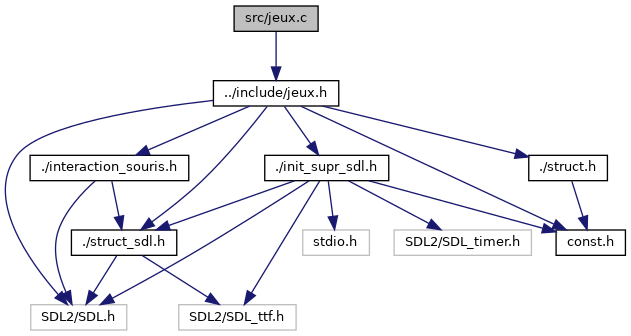
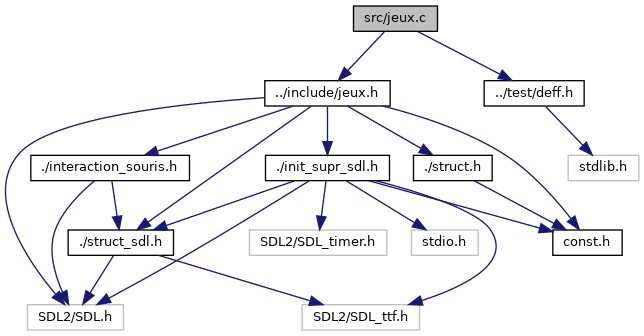
Deploying to gh-pages from @ tower-defense-L2/projet-L2@7115772ebaa96c553244dc964b326275e3705f89 🚀

diff --git a/init__supr__sdl_8h_source.html b/init__supr__sdl_8h_source.html
@@ -126,16 +126,16 @@ $(function() {
 <div class="line"><a name="l00144"></a><span class="lineno">  144</span>&#160; </div>
 <div class="line"><a name="l00145"></a><span class="lineno">  145</span>&#160;<span class="preprocessor">#endif</span></div>
 <div class="ttc" id="aconst_8h_html"><div class="ttname"><a href="const_8h.html">const.h</a></div></div>
-<div class="ttc" id="ainit__supr__sdl_8h_html_a0f5cd47d47ddda01dfd102dd3bcca397"><div class="ttname"><a href="init__supr__sdl_8h.html#a0f5cd47d47ddda01dfd102dd3bcca397">creation_bitexture</a></div><div class="ttdeci">bitexture_t * creation_bitexture(pack_t *fenetre, char *path1, char *path2, int x, int y)</div><div class="ttdoc">fonction servant à créer une bitexture</div><div class="ttdef"><b>Definition:</b> init_supr_sdl.c:212</div></div>
-<div class="ttc" id="ainit__supr__sdl_8h_html_a24c2a5628d1c9fb9ff25038f9fa675f9"><div class="ttname"><a href="init__supr__sdl_8h.html#a24c2a5628d1c9fb9ff25038f9fa675f9">position_bitexture</a></div><div class="ttdeci">void position_bitexture(bitexture_t *bouton, const int x, const int y)</div><div class="ttdoc">attribue une position au rectangle de la bitexture</div><div class="ttdef"><b>Definition:</b> init_supr_sdl.c:205</div></div>
+<div class="ttc" id="ainit__supr__sdl_8h_html_a0f5cd47d47ddda01dfd102dd3bcca397"><div class="ttname"><a href="init__supr__sdl_8h.html#a0f5cd47d47ddda01dfd102dd3bcca397">creation_bitexture</a></div><div class="ttdeci">bitexture_t * creation_bitexture(pack_t *fenetre, char *path1, char *path2, int x, int y)</div><div class="ttdoc">fonction servant à créer une bitexture</div><div class="ttdef"><b>Definition:</b> init_supr_sdl.c:213</div></div>
+<div class="ttc" id="ainit__supr__sdl_8h_html_a24c2a5628d1c9fb9ff25038f9fa675f9"><div class="ttname"><a href="init__supr__sdl_8h.html#a24c2a5628d1c9fb9ff25038f9fa675f9">position_bitexture</a></div><div class="ttdeci">void position_bitexture(bitexture_t *bouton, const int x, const int y)</div><div class="ttdoc">attribue une position au rectangle de la bitexture</div><div class="ttdef"><b>Definition:</b> init_supr_sdl.c:206</div></div>
 <div class="ttc" id="ainit__supr__sdl_8h_html_a299caa78ce5d45adf3c65b57dd67db24"><div class="ttname"><a href="init__supr__sdl_8h.html#a299caa78ce5d45adf3c65b57dd67db24">load_bitmap</a></div><div class="ttdeci">int load_bitmap(const char *path, SDL_Texture **texture, pack_t *fenetre)</div><div class="ttdoc">fonction servant à charger une bitmap et la convertir en texture</div><div class="ttdef"><b>Definition:</b> init_supr_sdl.c:77</div></div>
-<div class="ttc" id="ainit__supr__sdl_8h_html_a36af26e5dc7b20204eab0eeb8a058fee"><div class="ttname"><a href="init__supr__sdl_8h.html#a36af26e5dc7b20204eab0eeb8a058fee">supression_bouton</a></div><div class="ttdeci">void supression_bouton(bitexture_t **bouton)</div><div class="ttdoc">fonction servant à supprimer un bouton</div><div class="ttdef"><b>Definition:</b> init_supr_sdl.c:194</div></div>
-<div class="ttc" id="ainit__supr__sdl_8h_html_a52c3588a8ad29774109f938af920b926"><div class="ttname"><a href="init__supr__sdl_8h.html#a52c3588a8ad29774109f938af920b926">creation_texte</a></div><div class="ttdeci">SDL_Texture * creation_texte(pack_t *fenetre, char *texte, SDL_Color couleur)</div><div class="ttdoc">fonction servant à créer une texture a partir d'un texte</div><div class="ttdef"><b>Definition:</b> init_supr_sdl.c:133</div></div>
-<div class="ttc" id="ainit__supr__sdl_8h_html_a5e1dc847685ee1f1de2fbc8e114ad108"><div class="ttname"><a href="init__supr__sdl_8h.html#a5e1dc847685ee1f1de2fbc8e114ad108">supression_texture</a></div><div class="ttdeci">void supression_texture(texture_t *texture)</div><div class="ttdoc">fonction servant à supprimer une texture</div><div class="ttdef"><b>Definition:</b> init_supr_sdl.c:108</div></div>
-<div class="ttc" id="ainit__supr__sdl_8h_html_a796bbf8c3fc3cf1353b6241e018a23ef"><div class="ttname"><a href="init__supr__sdl_8h.html#a796bbf8c3fc3cf1353b6241e018a23ef">supression_texture_liste</a></div><div class="ttdeci">void supression_texture_liste(texture_t *texture)</div><div class="ttdoc">fonction servant à supprimer une liste de texture</div><div class="ttdef"><b>Definition:</b> init_supr_sdl.c:124</div></div>
+<div class="ttc" id="ainit__supr__sdl_8h_html_a36af26e5dc7b20204eab0eeb8a058fee"><div class="ttname"><a href="init__supr__sdl_8h.html#a36af26e5dc7b20204eab0eeb8a058fee">supression_bouton</a></div><div class="ttdeci">void supression_bouton(bitexture_t **bouton)</div><div class="ttdoc">fonction servant à supprimer un bouton</div><div class="ttdef"><b>Definition:</b> init_supr_sdl.c:195</div></div>
+<div class="ttc" id="ainit__supr__sdl_8h_html_a52c3588a8ad29774109f938af920b926"><div class="ttname"><a href="init__supr__sdl_8h.html#a52c3588a8ad29774109f938af920b926">creation_texte</a></div><div class="ttdeci">SDL_Texture * creation_texte(pack_t *fenetre, char *texte, SDL_Color couleur)</div><div class="ttdoc">fonction servant à créer une texture a partir d'un texte</div><div class="ttdef"><b>Definition:</b> init_supr_sdl.c:134</div></div>
+<div class="ttc" id="ainit__supr__sdl_8h_html_a5e1dc847685ee1f1de2fbc8e114ad108"><div class="ttname"><a href="init__supr__sdl_8h.html#a5e1dc847685ee1f1de2fbc8e114ad108">supression_texture</a></div><div class="ttdeci">void supression_texture(texture_t *texture)</div><div class="ttdoc">fonction servant à supprimer une texture</div><div class="ttdef"><b>Definition:</b> init_supr_sdl.c:109</div></div>
+<div class="ttc" id="ainit__supr__sdl_8h_html_a796bbf8c3fc3cf1353b6241e018a23ef"><div class="ttname"><a href="init__supr__sdl_8h.html#a796bbf8c3fc3cf1353b6241e018a23ef">supression_texture_liste</a></div><div class="ttdeci">void supression_texture_liste(texture_t *texture)</div><div class="ttdoc">fonction servant à supprimer une liste de texture</div><div class="ttdef"><b>Definition:</b> init_supr_sdl.c:125</div></div>
 <div class="ttc" id="ainit__supr__sdl_8h_html_a8261c3df42fe4d4d8aac42e68c4908e7"><div class="ttname"><a href="init__supr__sdl_8h.html#a8261c3df42fe4d4d8aac42e68c4908e7">initilalisation_sdl</a></div><div class="ttdeci">int initilalisation_sdl()</div><div class="ttdoc">fonction d'initialation de la sdl et ttf</div><div class="ttdef"><b>Definition:</b> init_supr_sdl.c:38</div></div>
 <div class="ttc" id="ainit__supr__sdl_8h_html_a97ec819672ff9f21645a4320e03a8587"><div class="ttname"><a href="init__supr__sdl_8h.html#a97ec819672ff9f21645a4320e03a8587">supression_sdl</a></div><div class="ttdeci">void supression_sdl()</div><div class="ttdoc">fonction d'arret de la sdl et ttf</div><div class="ttdef"><b>Definition:</b> init_supr_sdl.c:68</div></div>
-<div class="ttc" id="ainit__supr__sdl_8h_html_abdda276fe2bf253d027bdc82d3a34e9c"><div class="ttname"><a href="init__supr__sdl_8h.html#abdda276fe2bf253d027bdc82d3a34e9c">creation_bouton</a></div><div class="ttdeci">bitexture_t * creation_bouton(pack_t *fenetre, char *texte, SDL_Color couleur, SDL_Color wrap, int x, int y)</div><div class="ttdoc">fonction servant à créer un bouton</div><div class="ttdef"><b>Definition:</b> init_supr_sdl.c:158</div></div>
+<div class="ttc" id="ainit__supr__sdl_8h_html_abdda276fe2bf253d027bdc82d3a34e9c"><div class="ttname"><a href="init__supr__sdl_8h.html#abdda276fe2bf253d027bdc82d3a34e9c">creation_bouton</a></div><div class="ttdeci">bitexture_t * creation_bouton(pack_t *fenetre, char *texte, SDL_Color couleur, SDL_Color wrap, int x, int y)</div><div class="ttdoc">fonction servant à créer un bouton</div><div class="ttdef"><b>Definition:</b> init_supr_sdl.c:159</div></div>
 <div class="ttc" id="ainit__supr__sdl_8h_html_af481f956f543e81037250781e8bf7f56"><div class="ttname"><a href="init__supr__sdl_8h.html#af481f956f543e81037250781e8bf7f56">supression_pack</a></div><div class="ttdeci">void supression_pack(pack_t **fenetre)</div><div class="ttdoc">fonction de destruction d'une fenetre et d'un renderer et de la police</div><div class="ttdef"><b>Definition:</b> init_supr_sdl.c:56</div></div>
 <div class="ttc" id="ainit__supr__sdl_8h_html_af89796d3a3545156336295ace9cff82d"><div class="ttname"><a href="init__supr__sdl_8h.html#af89796d3a3545156336295ace9cff82d">creation_pack</a></div><div class="ttdeci">pack_t * creation_pack(char *titre, int width, int height, int flags, int taille_police)</div><div class="ttdoc">creation d'une fenetre et d'un renderer et chargement de la police</div><div class="ttdef"><b>Definition:</b> init_supr_sdl.c:4</div></div>
 <div class="ttc" id="astruct__sdl_8h_html"><div class="ttname"><a href="struct__sdl_8h.html">struct_sdl.h</a></div><div class="ttdoc">definition des differente structure utilisé par les fonctions de sdl</div></div>

diff --git a/deff_8h_source.html b/deff_8h_source.html
@@ -1,0 +1,88 @@
+<!DOCTYPE html PUBLIC "-//W3C//DTD XHTML 1.0 Transitional//EN" "https://www.w3.org/TR/xhtml1/DTD/xhtml1-transitional.dtd">
+<html xmlns="http://www.w3.org/1999/xhtml">
+<head>
+<meta http-equiv="Content-Type" content="text/xhtml;charset=UTF-8"/>
+<meta http-equiv="X-UA-Compatible" content="IE=9"/>
+<meta name="generator" content="Doxygen 1.9.1"/>
+<meta name="viewport" content="width=device-width, initial-scale=1"/>
+<title>Tower Defense:  Fichier source de test/deff.h</title>
+<link href="tabs.css" rel="stylesheet" type="text/css"/>
+<script type="text/javascript" src="jquery.js"></script>
+<script type="text/javascript" src="dynsections.js"></script>
+<link href="search/search.css" rel="stylesheet" type="text/css"/>
+<script type="text/javascript" src="search/searchdata.js"></script>
+<script type="text/javascript" src="search/search.js"></script>
+<link href="doxygen.css" rel="stylesheet" type="text/css" />
+</head>
+<body>
+<div id="top"><!-- do not remove this div, it is closed by doxygen! -->
+<div id="titlearea">
+<table cellspacing="0" cellpadding="0">
+ <tbody>
+ <tr style="height: 56px;">
+  <td id="projectlogo"><img alt="Logo" src="logo.png"/></td>
+  <td id="projectalign" style="padding-left: 0.5em;">
+   <div id="projectname">Tower Defense
+   &#160;<span id="projectnumber">0.1</span>
+   </div>
+   <div id="projectbrief">Ce projet dans le cadre de notre formation de L2 informatique à l&#39;Université Du Mans a pour but de créer un jeu de type &quot;Tower Defense&quot; en utilisant la librairie graphique SDL2.</div>
+  </td>
+ </tr>
+ </tbody>
+</table>
+</div>
+<!-- end header part -->
+<!-- Généré par Doxygen 1.9.1 -->
+<script type="text/javascript">
+/* @license magnet:?xt=urn:btih:cf05388f2679ee054f2beb29a391d25f4e673ac3&amp;dn=gpl-2.0.txt GPL-v2 */
+var searchBox = new SearchBox("searchBox", "search",false,'Recherche','.html');
+/* @license-end */
+</script>
+<script type="text/javascript" src="menudata.js"></script>
+<script type="text/javascript" src="menu.js"></script>
+<script type="text/javascript">
+/* @license magnet:?xt=urn:btih:cf05388f2679ee054f2beb29a391d25f4e673ac3&amp;dn=gpl-2.0.txt GPL-v2 */
+$(function() {
+  initMenu('',true,false,'search.php','Recherche');
+  $(document).ready(function() { init_search(); });
+});
+/* @license-end */</script>
+<div id="main-nav"></div>
+<!-- window showing the filter options -->
+<div id="MSearchSelectWindow"
+     onmouseover="return searchBox.OnSearchSelectShow()"
+     onmouseout="return searchBox.OnSearchSelectHide()"
+     onkeydown="return searchBox.OnSearchSelectKey(event)">
+</div>
+
+<!-- iframe showing the search results (closed by default) -->
+<div id="MSearchResultsWindow">
+<iframe src="javascript:void(0)" frameborder="0" 
+        name="MSearchResults" id="MSearchResults">
+</iframe>
+</div>
+
+<div id="nav-path" class="navpath">
+  <ul>
+<li class="navelem"><a class="el" href="dir_13e138d54eb8818da29c3992edef070a.html">test</a></li>  </ul>
+</div>
+</div><!-- top -->
+<div class="header">
+  <div class="headertitle">
+<div class="title">deff.h</div>  </div>
+</div><!--header-->
+<div class="contents">
+<div class="fragment"><div class="line"><a name="l00001"></a><span class="lineno">    1</span>&#160;<span class="preprocessor">#include &lt;stdlib.h&gt;</span></div>
+<div class="line"><a name="l00002"></a><span class="lineno">    2</span>&#160; </div>
+<div class="line"><a name="l00003"></a><span class="lineno">    3</span>&#160;<a class="code" href="structmap___s.html">map_T</a> *map = NULL;</div>
+<div class="line"><a name="l00004"></a><span class="lineno">    4</span>&#160;<a class="code" href="structjoueur___s.html">joueur_T</a> *joueur = NULL;</div>
+<div class="line"><a name="l00005"></a><span class="lineno">    5</span>&#160; </div>
+<div class="ttc" id="astructjoueur___s_html"><div class="ttname"><a href="structjoueur___s.html">joueur_S</a></div><div class="ttdoc">structure contenant les informations d'un joueur</div><div class="ttdef"><b>Definition:</b> struct.h:54</div></div>
+<div class="ttc" id="astructmap___s_html"><div class="ttname"><a href="structmap___s.html">map_S</a></div><div class="ttdoc">structure contenant les informations d'une carte</div><div class="ttdef"><b>Definition:</b> struct.h:105</div></div>
+</div><!-- fragment --></div><!-- contents -->
+<!-- start footer part -->
+<hr class="footer"/><address class="footer"><small>
+Généré par&#160;<a href="https://www.doxygen.org/index.html"><img class="footer" src="doxygen.svg" width="104" height="31" alt="doxygen"/></a> 1.9.1
+</small></address>
+</body>
+</html>

diff --git a/jeux_8c.html b/jeux_8c.html
@@ -78,22 +78,25 @@ $(function() {
 <p>boucle de jeu  
 <a href="#details">Plus de détails...</a></p>
 <div class="textblock"><code>#include &quot;<a class="el" href="jeux_8h_source.html">../include/jeux.h</a>&quot;</code><br />
+<code>#include &quot;../test/deff.h&quot;</code><br />
 </div><div class="textblock"><div class="dynheader">
 Graphe des dépendances par inclusion de jeux.c:</div>
 <div class="dyncontent">
 <div class="center"><img src="jeux_8c__incl.png" border="0" usemap="#asrc_2jeux_8c" alt=""/></div>
 <map name="asrc_2jeux_8c" id="asrc_2jeux_8c">
-<area shape="rect" title="boucle de jeu" alt="" coords="234,5,318,32"/>
-<area shape="rect" href="jeux_8h.html" title="fonction principale du jeu" alt="" coords="213,80,339,107"/>
-<area shape="rect" title=" " alt="" coords="31,304,127,331"/>
-<area shape="rect" href="struct__sdl_8h.html" title="definition des differente structure utilisé par les fonctions de sdl" alt="" coords="71,229,177,256"/>
-<area shape="rect" href="struct_8h.html" title="definition des differente structure utilisé dans le programme" alt="" coords="529,155,607,181"/>
-<area shape="rect" href="const_8h.html" title=" " alt="" coords="556,229,625,256"/>
-<area shape="rect" href="interaction__souris_8h.html" title="differentes fonctions pour gerer la souris avec SDL" alt="" coords="30,155,189,181"/>
+<area shape="rect" title="boucle de jeu" alt="" coords="353,5,437,32"/>
+<area shape="rect" href="jeux_8h.html" title="fonction principale du jeu" alt="" coords="265,80,390,107"/>
+<area shape="rect" href="deff_8h_source.html" title=" " alt="" coords="484,80,584,107"/>
+<area shape="rect" title=" " alt="" coords="27,304,123,331"/>
+<area shape="rect" href="struct__sdl_8h.html" title="definition des differente structure utilisé par les fonctions de sdl" alt="" coords="68,229,173,256"/>
+<area shape="rect" href="struct_8h.html" title="definition des differente structure utilisé dans le programme" alt="" coords="413,155,492,181"/>
+<area shape="rect" href="const_8h.html" title=" " alt="" coords="553,229,622,256"/>
+<area shape="rect" href="interaction__souris_8h.html" title="differentes fonctions pour gerer la souris avec SDL" alt="" coords="31,155,189,181"/>
 <area shape="rect" href="init__supr__sdl_8h.html" title="différente fonction servant pour la création et la destruction de la sdl" alt="" coords="265,155,389,181"/>
-<area shape="rect" title=" " alt="" coords="179,304,296,331"/>
-<area shape="rect" title=" " alt="" coords="303,229,369,256"/>
-<area shape="rect" title=" " alt="" coords="394,229,531,256"/>
+<area shape="rect" title=" " alt="" coords="302,304,419,331"/>
+<area shape="rect" title=" " alt="" coords="411,229,478,256"/>
+<area shape="rect" title=" " alt="" coords="249,229,387,256"/>
+<area shape="rect" title=" " alt="" coords="568,155,639,181"/>
 </map>
 </div>
 </div><table class="memberdecls">

diff --git a/jeux_8h_source.html b/jeux_8h_source.html
@@ -90,7 +90,7 @@ $(function() {
 <div class="ttc" id="aconst_8h_html"><div class="ttname"><a href="const_8h.html">const.h</a></div></div>
 <div class="ttc" id="ainit__supr__sdl_8h_html"><div class="ttname"><a href="init__supr__sdl_8h.html">init_supr_sdl.h</a></div><div class="ttdoc">différente fonction servant pour la création et la destruction de la sdl</div></div>
 <div class="ttc" id="ainteraction__souris_8h_html"><div class="ttname"><a href="interaction__souris_8h.html">interaction_souris.h</a></div><div class="ttdoc">differentes fonctions pour gerer la souris avec SDL</div></div>
-<div class="ttc" id="ajeux_8h_html_ac0077883024dfa9bd746832c43984fc8"><div class="ttname"><a href="jeux_8h.html#ac0077883024dfa9bd746832c43984fc8">jeux</a></div><div class="ttdeci">int jeux(pack_t *fenetre)</div><div class="ttdoc">fonction principale du jeu</div><div class="ttdef"><b>Definition:</b> jeux.c:45</div></div>
+<div class="ttc" id="ajeux_8h_html_ac0077883024dfa9bd746832c43984fc8"><div class="ttname"><a href="jeux_8h.html#ac0077883024dfa9bd746832c43984fc8">jeux</a></div><div class="ttdeci">int jeux(pack_t *fenetre)</div><div class="ttdoc">fonction principale du jeu</div><div class="ttdef"><b>Definition:</b> jeux.c:48</div></div>
 <div class="ttc" id="astruct_8h_html"><div class="ttname"><a href="struct_8h.html">struct.h</a></div><div class="ttdoc">definition des differente structure utilisé dans le programme</div></div>
 <div class="ttc" id="astruct__sdl_8h_html"><div class="ttname"><a href="struct__sdl_8h.html">struct_sdl.h</a></div><div class="ttdoc">definition des differente structure utilisé par les fonctions de sdl</div></div>
 <div class="ttc" id="astructpack__t_html"><div class="ttname"><a href="structpack__t.html">pack_t</a></div><div class="ttdoc">structure contenant les pointeurs sur la fenetre, le renderer et la police</div></div>

diff --git a/files.html b/files.html
@@ -86,6 +86,8 @@ $(function() {
 <tr id="row_1_"><td class="entry"><span style="width:0px;display:inline-block;">&#160;</span><span id="arr_1_" class="arrow" onclick="toggleFolder('1_')">&#9660;</span><span id="img_1_" class="iconfopen" onclick="toggleFolder('1_')">&#160;</span><a class="el" href="dir_68267d1309a1af8e8297ef4c3efbcdba.html" target="_self">src</a></td><td class="desc"></td></tr>
 <tr id="row_1_0_" class="even"><td class="entry"><span style="width:32px;display:inline-block;">&#160;</span><span class="icondoc"></span><a class="el" href="jeux_8c.html" target="_self">jeux.c</a></td><td class="desc">Boucle de jeu </td></tr>
 <tr id="row_1_1_"><td class="entry"><span style="width:32px;display:inline-block;">&#160;</span><span class="icondoc"></span><a class="el" href="menu_8c.html" target="_self">menu.c</a></td><td class="desc">Menu principal du jeu </td></tr>
+<tr id="row_2_" class="even"><td class="entry"><span style="width:0px;display:inline-block;">&#160;</span><span id="arr_2_" class="arrow" onclick="toggleFolder('2_')">&#9660;</span><span id="img_2_" class="iconfopen" onclick="toggleFolder('2_')">&#160;</span><a class="el" href="dir_13e138d54eb8818da29c3992edef070a.html" target="_self">test</a></td><td class="desc"></td></tr>
+<tr id="row_2_0_"><td class="entry"><span style="width:32px;display:inline-block;">&#160;</span><a href="deff_8h_source.html"><span class="icondoc"></span></a><b>deff.h</b></td><td class="desc"></td></tr>
 </table>
 </div><!-- directory -->
 </div><!-- contents -->
